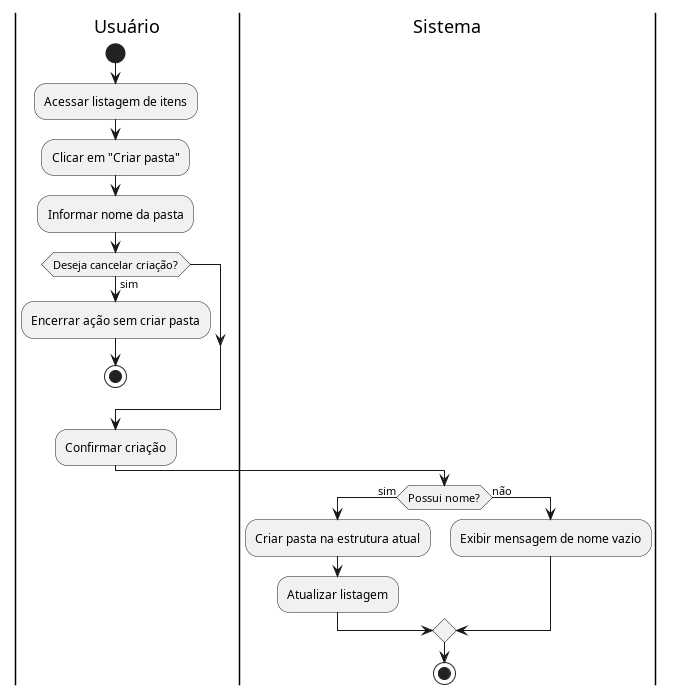
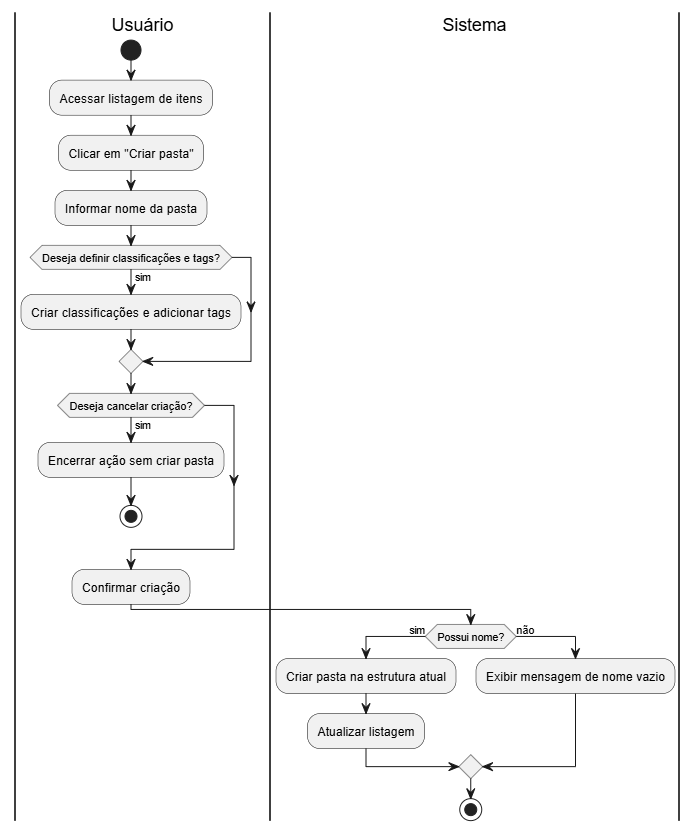
docs: atualizar casos de uso e diagramas de atividade com opções de tags

Changed region(s): [[0.0, 0.0, 0.9985, 0.9971], [0.6241, 0.0, 0.7177, 0.0604]]

diff --git a/docs/casosUso/UC.md b/docs/casosUso/UC.md
@@ -46,11 +46,13 @@ Documento consolidado dos casos de uso.
 1. Abrir a tela inicial.
 2. Clicar em "Novo Projeto".
 3. Informar nome do projeto.
-4. Sistema cria o projeto.
+4. Adicionar tags ao projeto (opcional).
+5. Sistema cria o projeto.
 
 ## Fluxo alternativo
 
 - A1 - Nome não informado: sistema exibe validação de nome obrigatório e bloqueia a criação.
+- A2 - Tag já cadastrada informada na criação: sistema reaproveita a tag existente e a associa ao projeto.
 
 ## Requisitos relacionados
 
@@ -120,6 +122,7 @@ Documento consolidado dos casos de uso.
 
 - A1 - Campos obrigatórios ausentes: sistema destaca os campos pendentes e bloqueia a criação.
 - A2 - Cancelar criação: sistema descarta os dados preenchidos e retorna à lista de personagens.
+- A3 - Tag já cadastrada informada no seletor: sistema reaproveita a opção existente.
 
 ## Requisitos relacionados
 
@@ -252,8 +255,9 @@ A2 - Nota sem título:
 1. Acessar a tela de listagem de itens.
 2. Acionar a opção "Criar pasta".
 3. Informar nome da pasta.
-4. Confirmar criação.
-5. Sistema exibe a pasta na listagem.
+4. Definir classificações e tags da pasta (opcional).
+5. Confirmar criação.
+6. Sistema exibe a pasta na listagem.
 
 ## Fluxos alternativos
 